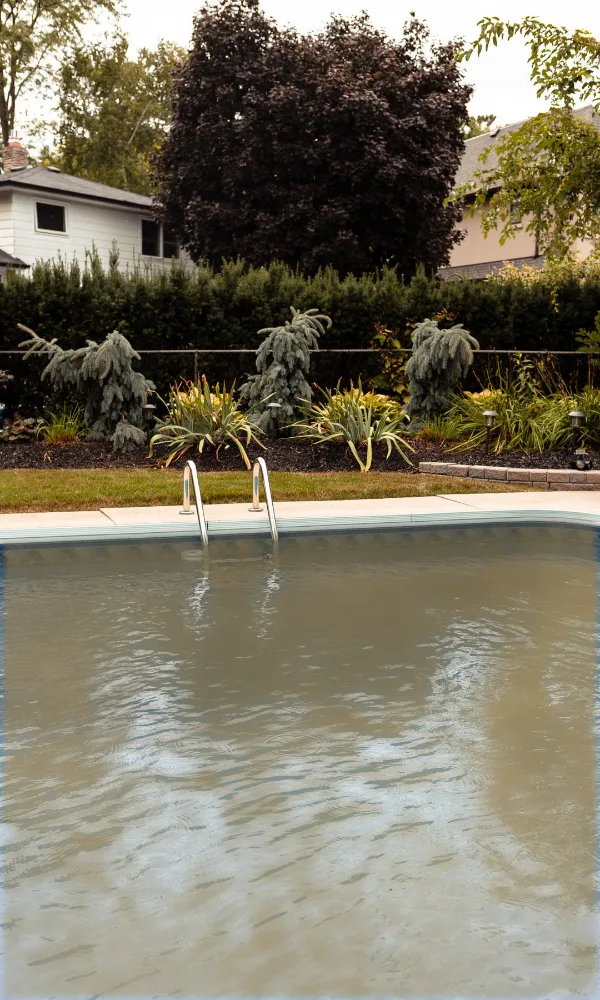
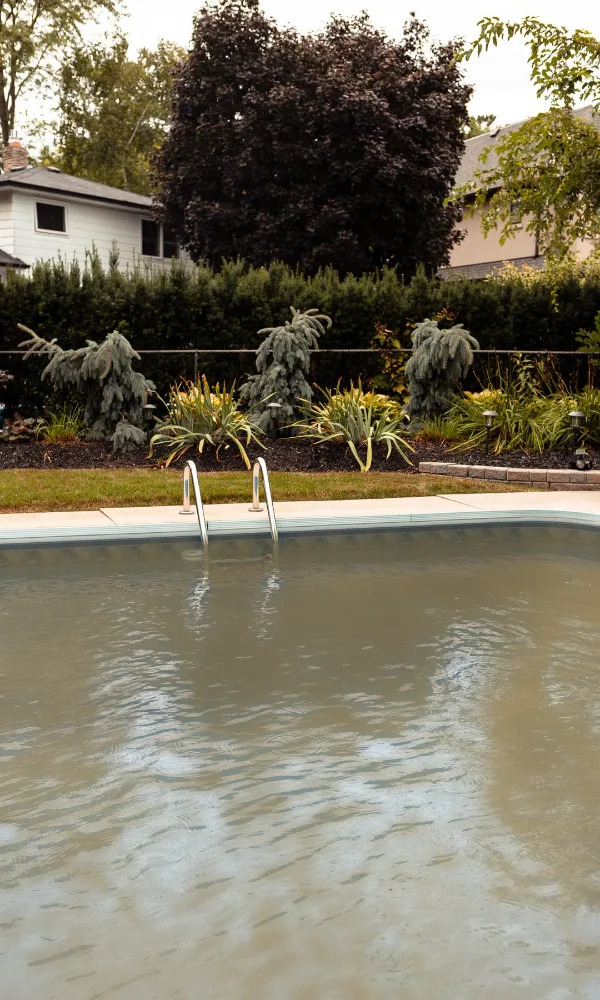
Melhora a foto de agua turva do antes e depois

Changed region(s): [[0.0, 0.527, 1.0, 1.0]]

diff --git a/ferramentas/render-antes-depois.html b/ferramentas/render-antes-depois.html
@@ -49,6 +49,7 @@ function hsv(r, g, b){
   return [(h*60+360)%360, mx ? d/mx : 0, mx/255];
 }
 /* máscara da água: tons azul/ciano, suavizada */
+let mascaraCrua;
 function mascaraAgua(px, yMinPx, satMin = .12){
   const m = new Float32Array(W*H);
   for (let i = 0; i < W*H; i++) {
@@ -60,11 +61,14 @@ function mascaraAgua(px, yMinPx, satMin = .12){
     const luz = Math.min(1, Math.max(0, (v - .12) / .15));
     m[i] = Math.min(1, matiz * 1.6) * sat * luz;
   }
+  mascaraCrua = m.slice();   // versão sem suavizar: separa a água de objetos finos (escada, bordas)
   // suaviza a máscara (borrão em caixa, 2 passadas)
   const t = new Float32Array(W*H), R = 6;
   for (let p = 0; p < 2; p++) {
-    for (let y = 0; y < H; y++) { let a = 0; for (let x = -R; x < W; x++) { if (x+R < W) a += m[y*W+x+R]; if (x-R-1 >= 0) a -= m[y*W+x-R-1]; if (x >= 0) t[y*W+x] = a/(2*R+1); } }
-    for (let x = 0; x < W; x++) { let a = 0; for (let y = -R; y < H; y++) { if (y+R < H) a += t[(y+R)*W+x]; if (y-R-1 >= 0) a -= t[(y-R-1)*W+x]; if (y >= 0) m[y*W+x] = a/(2*R+1); } }
+    // divide pelo número real de vizinhos, para a borda da foto não ficar mais fraca
+    const nv = (p, N) => Math.min(N-1, p+R) - Math.max(0, p-R) + 1;
+    for (let y = 0; y < H; y++) { let a = 0; for (let x = -R; x < W; x++) { if (x+R < W) a += m[y*W+x+R]; if (x-R-1 >= 0) a -= m[y*W+x-R-1]; if (x >= 0) t[y*W+x] = a/nv(x, W); } }
+    for (let x = 0; x < W; x++) { let a = 0; for (let y = -R; y < H; y++) { if (y+R < H) a += t[(y+R)*W+x]; if (y-R-1 >= 0) a -= t[(y-R-1)*W+x]; if (y >= 0) m[y*W+x] = a/nv(y, H); } }
   }
   for (let i = 0; i < m.length; i++) m[i] = Math.min(1, m[i] * 1.25);
   return m;
@@ -86,16 +90,19 @@ const efeitos = {
       }
     }
   },
+  /* água turva: véu leitoso cinza-esverdeado, fundo some, contraste baixo.
+     Usa a máscara crua para não borrar nem tingir a escada e as bordas. */
   turva(px, m, bl, n){
+    const cru = mascaraCrua;
     for (let i = 0; i < W*H; i++) {
-      const w = m[i]; if (!w) continue; const k = i*4;
-      const L = (.3*bl[k] + .59*bl[k+1] + .11*bl[k+2]) / 255;
+      if (!m[i]) continue; const k = i*4;
+      const w = Math.min(1, m[i] * 1.3) * (.25 + .75 * Math.min(1, cru[i] * 2.5));
+      const L = (.3*px[k] + .59*px[k+1] + .11*px[k+2]) / 255;
+      const brilho = Math.max(0, L - .86) * 3.5;            // mantém os reflexos do sol
+      const Lc = .55 + (L - .55) * .75;                      // menos contraste, mas mantém as ondinhas
       const veu = .9 + .2 * n[i];
-      const alvo = [ (118 + 70*L) * veu, (150 + 62*L) * veu, (140 + 52*L) * veu ];
-      for (let c = 0; c < 3; c++) {
-        const base = mix(px[k+c], bl[k+c], .7);
-        px[k+c] = mix(px[k+c], mix(base, alvo[c], .62), w * .95);
-      }
+      const alvo = [ (78 + 120*Lc) * veu, (112 + 112*Lc) * veu, (108 + 98*Lc) * veu ];
+      for (let c = 0; c < 3; c++) px[k+c] = mix(px[k+c], mix(alvo[c], px[k+c], brilho), w * .84);
     }
   },
   folhas(px, m, bl, n){
